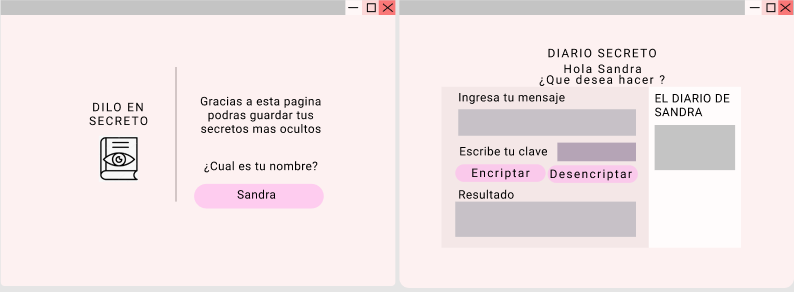
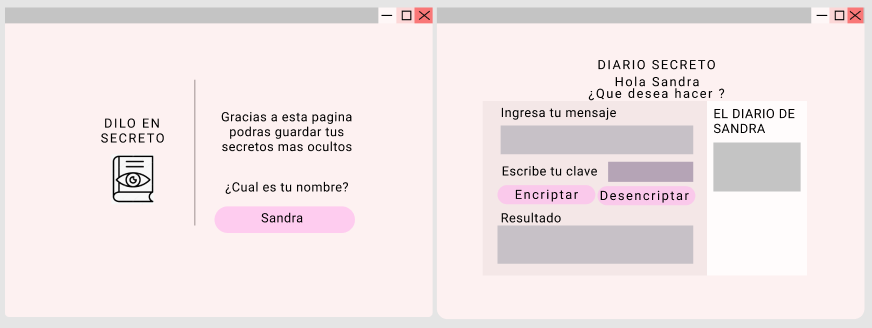
Finalizando README

diff --git a/README.md b/README.md
@@ -47,7 +47,7 @@ El objetivo del proyecto es crear un diario personal virtual que a la vez encrip
 ![prototipo_nodig](https://user-images.githubusercontent.com/55293526/75356565-1f271500-587e-11ea-99aa-5ce89e31188c.png)
     
 #### Digital 
-![prototipo_dig](https://user-images.githubusercontent.com/55293526/75356549-19313400-587e-11ea-8a87-623e091091e4.png)
+![prototipo_dig](https://user-images.githubusercontent.com/55293526/75357016-b5f3d180-587e-11ea-9c71-98b5f174cab6.png)
 
 
 ### Resumen de feedback de mejoras a realizar :clipboard:
